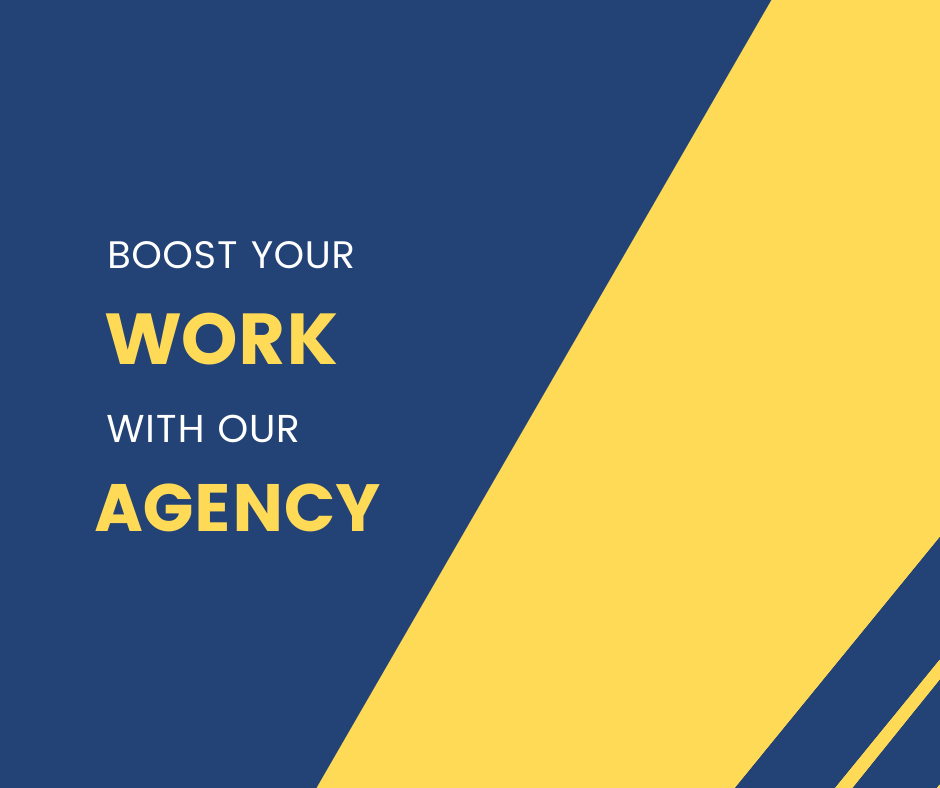
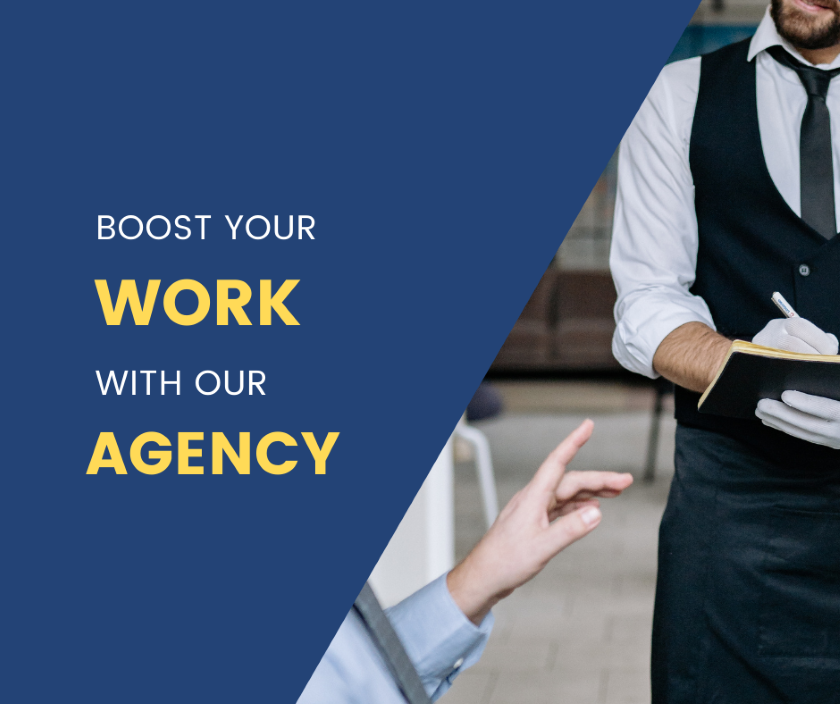
crete services page & setup home paGE

diff --git a/src/components/Pricing/Pricing.js b/src/components/Pricing/Pricing.js
@@ -1,10 +1,10 @@
-import React from 'react';
-import { Button } from '../../globalStyles';
-import { AiFillThunderbolt } from 'react-icons/ai';
-import { GiCrystalBars } from 'react-icons/gi';
-import { GiCutDiamond, GiRock } from 'react-icons/gi';
-import { GiFloatingCrystal } from 'react-icons/gi';
-import { IconContext } from 'react-icons/lib';
+import React from "react";
+import { Button } from "../../globalStyles";
+import { AiFillThunderbolt } from "react-icons/ai";
+import { GiCrystalBars } from "react-icons/gi";
+import { GiCutDiamond, GiRock } from "react-icons/gi";
+import { GiFloatingCrystal } from "react-icons/gi";
+import { IconContext } from "react-icons/lib";
 import {
   PricingSection,
   PricingWrapper,
@@ -17,68 +17,78 @@ import {
   PricingCardCost,
   PricingCardLength,
   PricingCardFeatures,
-  PricingCardFeature
-} from './Pricing.elements';
+  PricingCardFeature,
+} from "./Pricing.elements";
 
 function Pricing() {
   return (
-    <IconContext.Provider value={{ color: '#a9b3c1', size: 64 }}>
-      <PricingSection>
-        <PricingWrapper>
-          <PricingHeading>Our Services</PricingHeading>
-          <PricingContainer>
-            <PricingCard to='/sign-up'>
-              <PricingCardInfo>
-                <PricingCardIcon>
-                  <GiRock />
-                </PricingCardIcon>
-                <PricingCardPlan>Starter Pack</PricingCardPlan>
-                <PricingCardCost>$99.99</PricingCardCost>
-                <PricingCardLength>per month</PricingCardLength>
-                <PricingCardFeatures>
-                  <PricingCardFeature>100 New Users</PricingCardFeature>
-                  <PricingCardFeature>$10,000 Budget</PricingCardFeature>
-                  <PricingCardFeature>Retargeting analytics</PricingCardFeature>
-                </PricingCardFeatures>
-                <Button primary>Choose Plan</Button>
-              </PricingCardInfo>
-            </PricingCard>
-            <PricingCard to='/sign-up'>
-              <PricingCardInfo>
-                <PricingCardIcon>
-                  <GiCrystalBars />
-                </PricingCardIcon>
-                <PricingCardPlan>Gold Rush</PricingCardPlan>
-                <PricingCardCost>$299.99</PricingCardCost>
-                <PricingCardLength>per month</PricingCardLength>
-                <PricingCardFeatures>
-                  <PricingCardFeature>1000 New Users</PricingCardFeature>
-                  <PricingCardFeature>$50,000 Budget</PricingCardFeature>
-                  <PricingCardFeature>Lead Gen Analytics</PricingCardFeature>
-                </PricingCardFeatures>
-                <Button primary>Choose Plan</Button>
-              </PricingCardInfo>
-            </PricingCard>
-            <PricingCard to='/sign-up'>
-              <PricingCardInfo>
-                <PricingCardIcon>
-                  <GiCutDiamond />
-                </PricingCardIcon>
-                <PricingCardPlan>Diamond Kings</PricingCardPlan>
-                <PricingCardCost>$999.99</PricingCardCost>
-                <PricingCardLength>per month</PricingCardLength>
-                <PricingCardFeatures>
-                  <PricingCardFeature>Unlimited Users</PricingCardFeature>
-                  <PricingCardFeature>Unlimited Budget</PricingCardFeature>
-                  <PricingCardFeature>24/7 Support</PricingCardFeature>
-                </PricingCardFeatures>
-                <Button primary>Choose Plan</Button>
-              </PricingCardInfo>
-            </PricingCard>
-          </PricingContainer>
-        </PricingWrapper>
-      </PricingSection>
-    </IconContext.Provider>
+    <PricingSection>
+      <PricingWrapper>
+        <PricingHeading>Our Services</PricingHeading>
+        <PricingContainer>
+          <PricingCard to="/sign-up">
+            <PricingCardInfo>
+              <img
+                src={require("../../images/waiter.jpg")}
+                alt="card-img"
+                className="card-img"
+              />
+              <PricingCardPlan>Waiter Service</PricingCardPlan>
+            </PricingCardInfo>
+          </PricingCard>
+          <PricingCard to="/sign-up">
+            <PricingCardInfo>
+              <img
+                src={require("../../images/waiter.jpg")}
+                alt="card-img"
+                className="card-img"
+              />
+              <PricingCardPlan>Waiter Service</PricingCardPlan>
+            </PricingCardInfo>
+          </PricingCard>
+          <PricingCard to="/sign-up">
+            <PricingCardInfo>
+              <img
+                src={require("../../images/waiter.jpg")}
+                alt="card-img"
+                className="card-img"
+              />
+              <PricingCardPlan>Waiter Service</PricingCardPlan>
+            </PricingCardInfo>
+          </PricingCard>
+          <PricingCard to="/sign-up">
+            <PricingCardInfo>
+              <img
+                src={require("../../images/waiter.jpg")}
+                alt="card-img"
+                className="card-img"
+              />
+              <PricingCardPlan>Waiter Service</PricingCardPlan>
+            </PricingCardInfo>
+          </PricingCard>
+          <PricingCard to="/sign-up">
+            <PricingCardInfo>
+              <img
+                src={require("../../images/waiter.jpg")}
+                alt="card-img"
+                className="card-img"
+              />
+              <PricingCardPlan>Waiter Service</PricingCardPlan>
+            </PricingCardInfo>
+          </PricingCard>
+          <PricingCard to="/sign-up">
+            <PricingCardInfo>
+              <img
+                src={require("../../images/waiter.jpg")}
+                alt="card-img"
+                className="card-img"
+              />
+              <PricingCardPlan>Waiter Service</PricingCardPlan>
+            </PricingCardInfo>
+          </PricingCard>
+        </PricingContainer>
+      </PricingWrapper>
+    </PricingSection>
   );
 }
 export default Pricing;

diff --git a/src/components/Pricing/Pricing.elements.js b/src/components/Pricing/Pricing.elements.js
@@ -1,12 +1,11 @@
-import { Link } from 'react-router-dom';
-import styled from 'styled-components';
+import { Link } from "react-router-dom";
+import styled from "styled-components";
 
 export const PricingSection = styled.div`
   padding: 100px 0 160px;
   display: flex;
   flex-direction: column;
   justify-content: center;
-  background: #4b59f7;
 `;
 
 export const PricingWrapper = styled.div`
@@ -24,13 +23,14 @@ export const PricingWrapper = styled.div`
 `;
 
 export const PricingHeading = styled.h1`
-  color: #fff;
+  color: #0a1435;
   font-size: 48px;
   margin-bottom: 24px;
 `;
 
 export const PricingContainer = styled.div`
   display: flex;
+  flex-wrap: wrap;
   justify-content: center;
   align-items: center;
 
@@ -44,16 +44,13 @@ export const PricingContainer = styled.div`
 `;
 
 export const PricingCard = styled(Link)`
-  background: #242424;
+  background: #0a1435;
   box-shadow: 0 6px 20px rgba(56, 125, 255, 0.2);
   width: 280px;
-  height: 500px;
+  height: 270px;
   text-decoration: none;
   border-radius: 4px;
-
-  &:nth-child(2) {
-    margin: 24px;
-  }
+  margin: 24px;
 
   &:hover {
     transform: scale(1.06);
@@ -71,41 +68,16 @@ export const PricingCard = styled(Link)`
 `;
 
 export const PricingCardInfo = styled.div`
-  display: flex;
-  flex-direction: column;
-  height: 500px;
-  padding: 24px;
-  align-items: center;
+  text-align: center;
   color: #fff;
-`;
-
-export const PricingCardIcon = styled.div`
-  margin: 24px 0;
+  .card-img {
+    max-width: 270px;
+    max-height: auto;
+  }
 `;
 
 export const PricingCardPlan = styled.h3`
   margin-bottom: 5px;
+  margin-top: 15px;
   font-size: 24px;
-`;
-
-export const PricingCardCost = styled.h4`
-  font-size: 40px;
-`;
-
-export const PricingCardLength = styled.p`
-  font-size: 14px;
-  margin-bottom: 24px;
-`;
-
-export const PricingCardFeatures = styled.ul`
-  margin: 16px 0 32px;
-  list-style: none;
-  display: flex;
-  flex-direction: column;
-  align-items: center;
-  color: #a9b3c1;
-`;
-
-export const PricingCardFeature = styled.li`
-  margin-bottom: 10px;
 `;

diff --git a/src/pages/HomePage/Home.js b/src/pages/HomePage/Home.js
@@ -1,13 +1,13 @@
-import React from 'react';
-import { homeObjOne, homeObjTwo, homeObjThree, homeObjFour } from './Data';
-import { InfoSection, Pricing } from '../../components';
+import React from "react";
+import { homeObjOne, homeObjTwo, homeObjThree, homeObjFour } from "./Data";
+import { InfoSection, Pricing } from "../../components";
 
 function Home() {
   return (
     <>
       <InfoSection {...homeObjOne} />
       <InfoSection {...homeObjThree} />
-      <InfoSection {...homeObjTwo} />
+
       <Pricing />
       <InfoSection {...homeObjFour} />
     </>

diff --git a/src/components/Footer/Footer.elements.js b/src/components/Footer/Footer.elements.js
@@ -3,7 +3,7 @@ import { FaMagento } from "react-icons/fa";
 import { Link } from "react-router-dom";
 
 export const FooterContainer = styled.div`
-  background-color: #101522;
+  background-color: #0a1435;
   padding: 4rem 0 2rem 0;
   display: flex;
   flex-direction: column;
